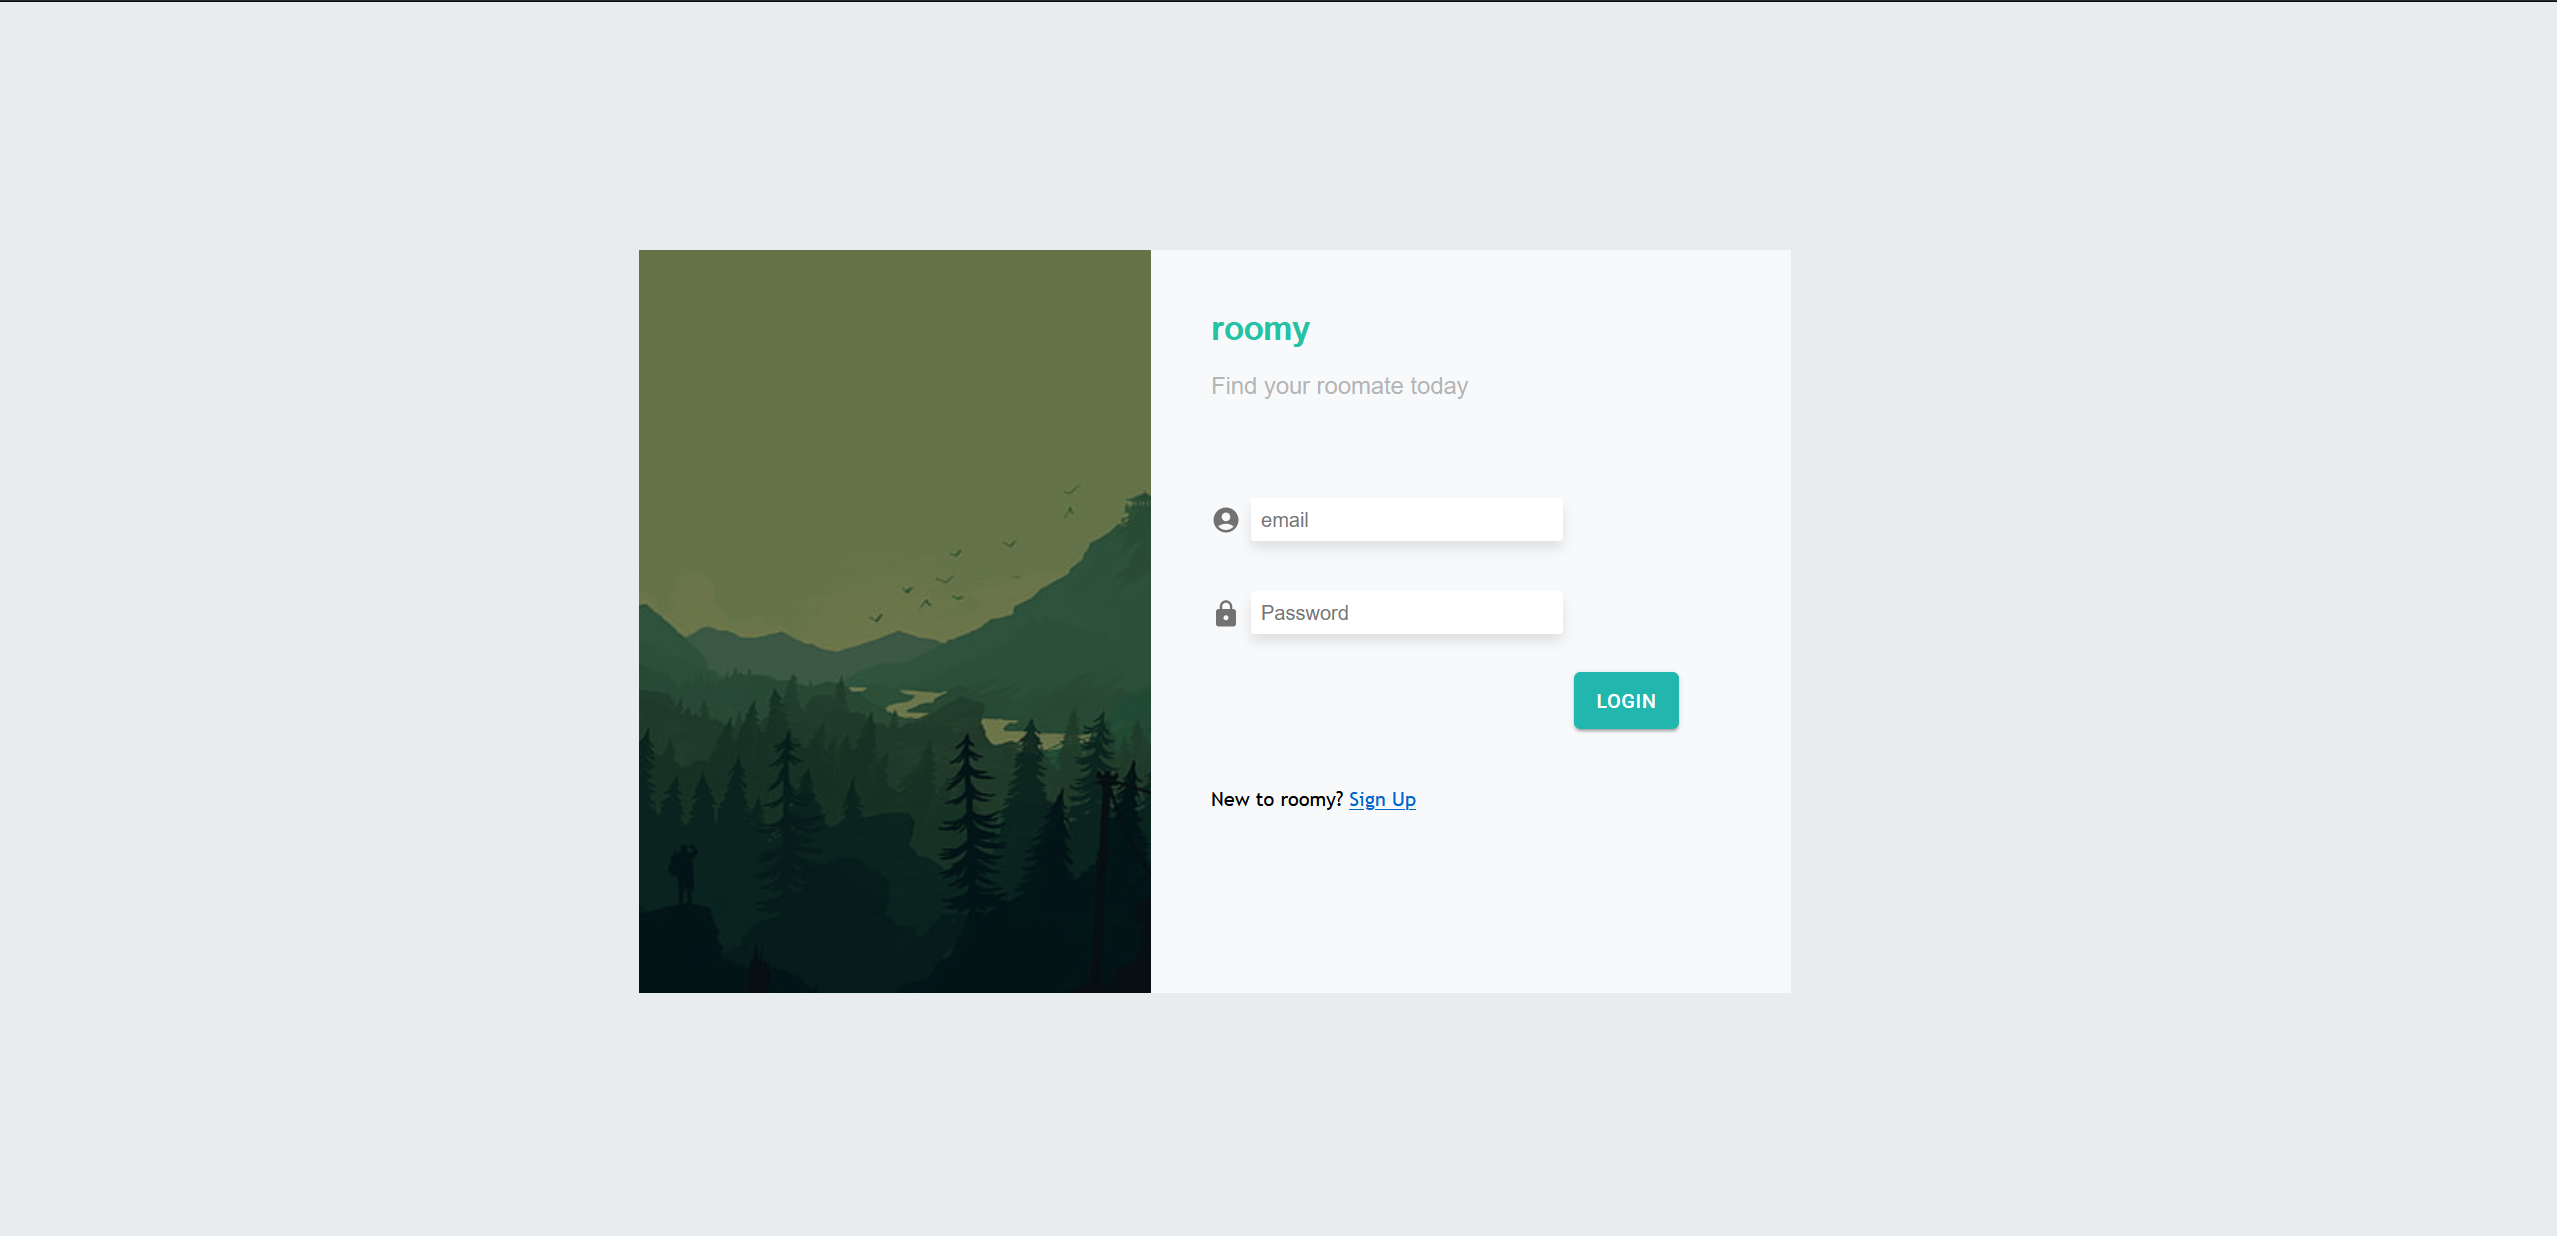
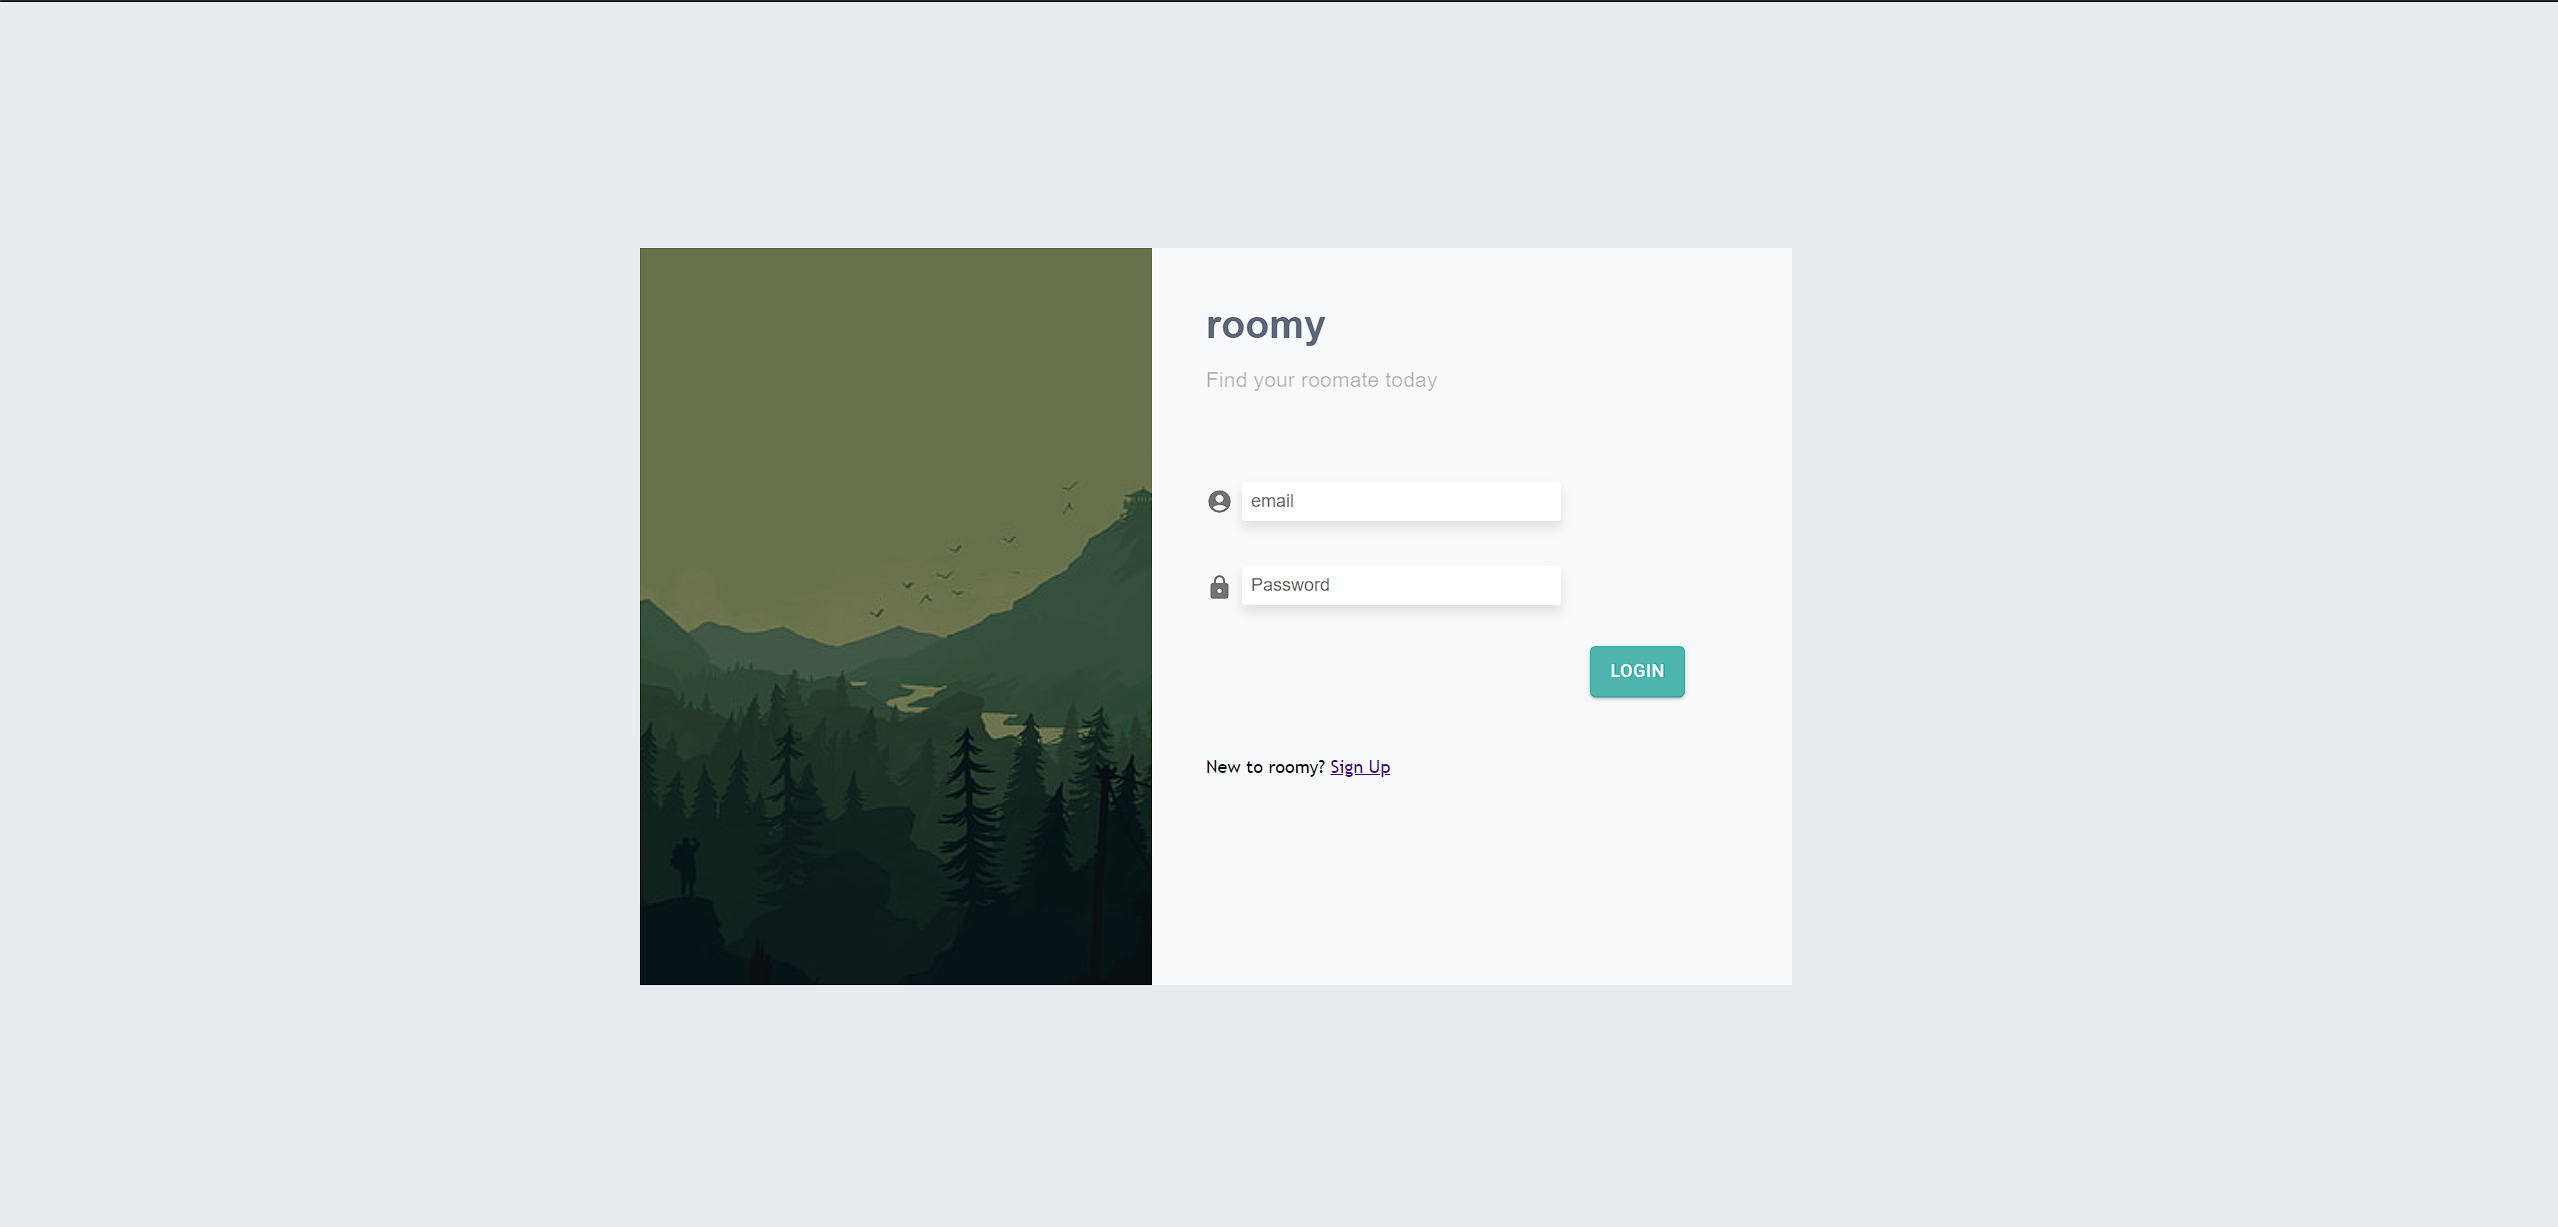
fix login colors

diff --git a/src/css/login.scss b/src/css/login.scss
@@ -84,8 +84,9 @@
   opacity: 0.85;
 
   span {
-    color: #00b894;
+    color: #424e66;
     font-weight: 700;
+    font-size: 35px;
   }
   p {
     // line-height: 155%;
